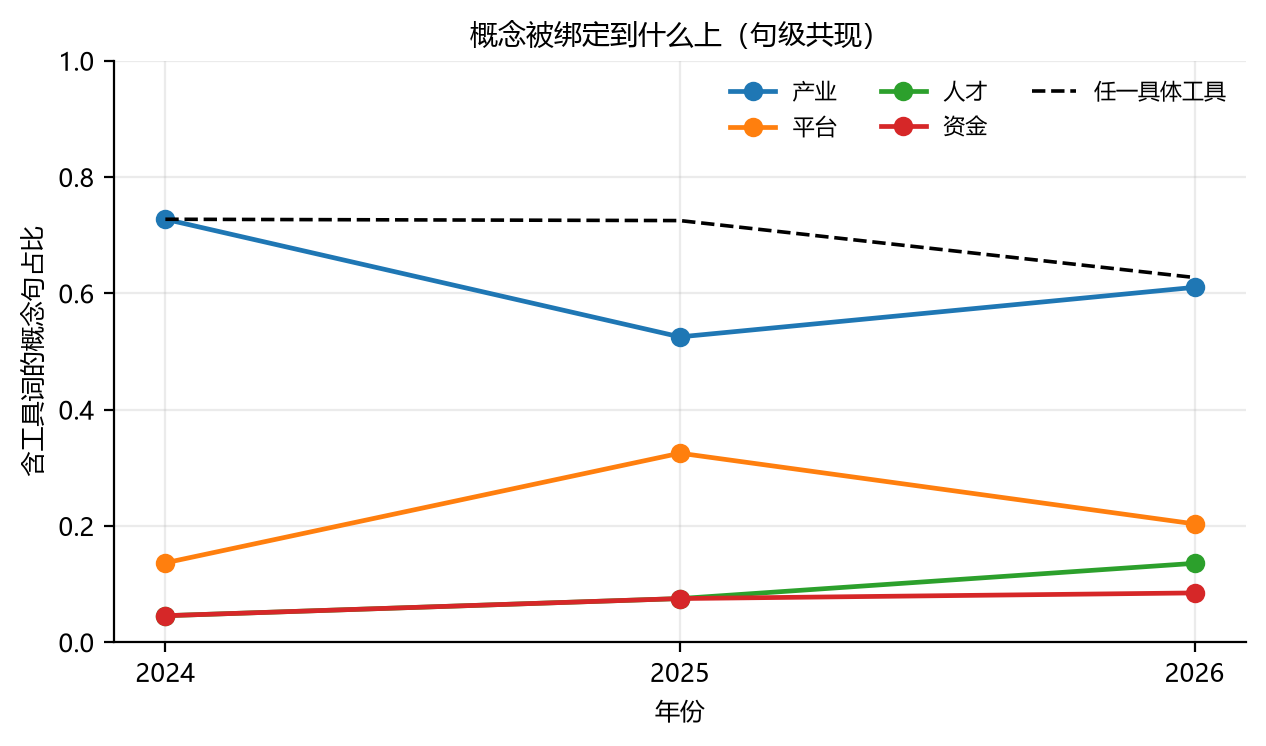
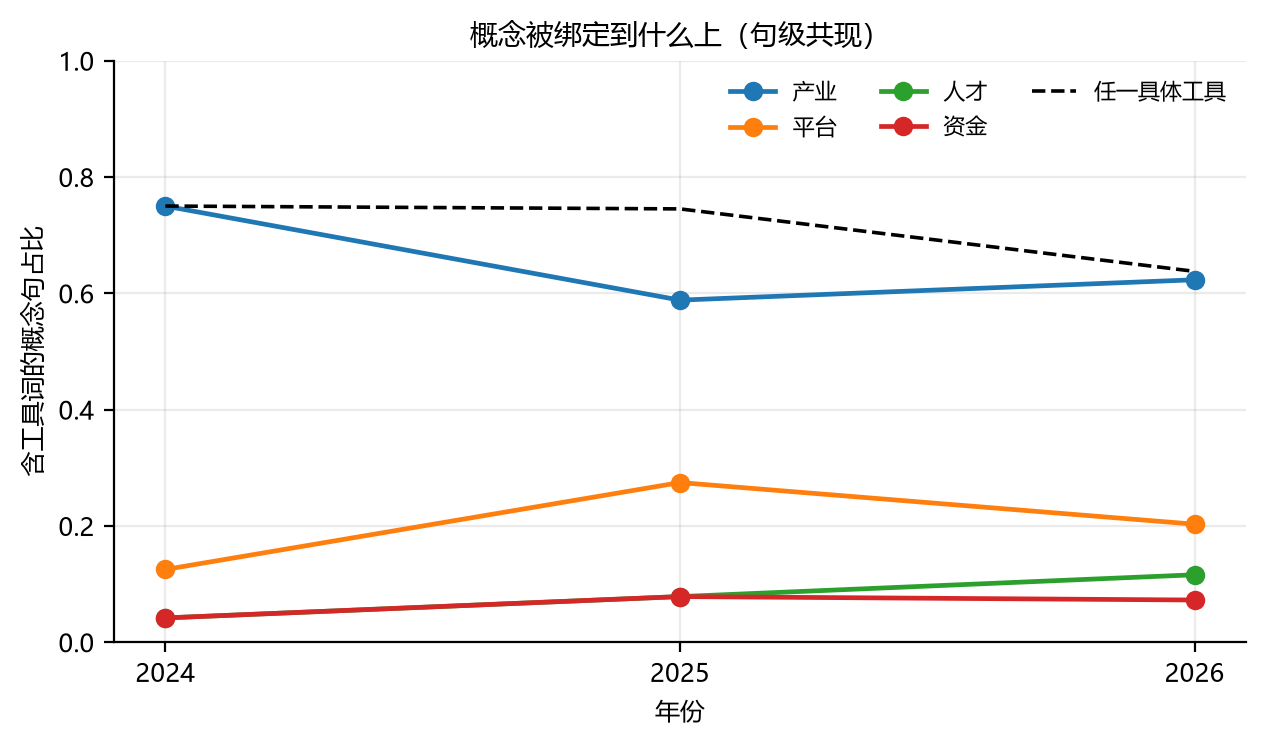
data: expand corpus to 18 provinces / 150 documents and update all figures

diff --git a/scripts/sync_manifest.py b/scripts/sync_manifest.py
@@ -1,18 +1,24 @@
 """Rebuild data/manifest.csv so it matches exactly the documents we actually parsed.
 
 Rules:
-  * keep rows whose doc_id has a parsed text file
-  * drop rows without text (failed downloads, moved pages)
+  * keep rows whose parsed text is at least ``--min-chars`` long
+  * drop rows without text (failed downloads, moved pages, empty stubs)
   * pull in any parsed doc missing from the manifest (from the backup copy)
+
+Usage:
+    python scripts/sync_manifest.py
+    python scripts/sync_manifest.py --min-chars 3000
 """
 from __future__ import annotations
 
+import argparse
 import csv
+import json
 from pathlib import Path
 
 ROOT = Path(__file__).resolve().parents[1]
 MANIFEST = ROOT / "data" / "manifest.csv"
-BACKUP = Path("/tmp/head_manifest.csv")
+BACKUP = ROOT / "data" / "probe" / "head_manifest.csv"
 TEXT_DIR = ROOT / "data" / "interim" / "text"
 
 COLUMNS = [
@@ -22,7 +28,14 @@ COLUMNS = [
 
 
 def main() -> None:
-    text_ids = {p.stem for p in TEXT_DIR.glob("*.json")}
+    ap = argparse.ArgumentParser(description=__doc__)
+    ap.add_argument("--min-chars", type=int, default=3000,
+                    help="drop documents whose parsed text is shorter than this")
+    args = ap.parse_args()
+
+    chars = {p.stem: json.loads(p.read_text(encoding="utf-8"))["n_chars"]
+             for p in TEXT_DIR.glob("*.json")}
+    usable = {k for k, v in chars.items() if v >= args.min_chars}
 
     with open(MANIFEST, encoding="utf-8") as fh:
         current = {r["doc_id"]: r for r in csv.DictReader(fh)}
@@ -31,21 +44,21 @@ def main() -> None:
         with open(BACKUP, encoding="utf-8") as fh:
             backup = {r["doc_id"]: r for r in csv.DictReader(fh)}
 
-    kept = {k: v for k, v in current.items() if k in text_ids}
+    kept = {k: v for k, v in current.items() if k in usable}
     dropped = sorted(set(current) - set(kept))
-    added = sorted(text_ids - set(kept))
+    added = sorted(usable - set(kept))
     for doc_id in added:
         if doc_id in backup:
             kept[doc_id] = backup[doc_id]
 
-    missing = sorted(text_ids - set(kept))
+    missing = sorted(usable - set(kept))
     rows = sorted(kept.values(), key=lambda r: (r["code"], r["year"]))
     with open(MANIFEST, "w", newline="", encoding="utf-8") as fh:
         writer = csv.DictWriter(fh, fieldnames=COLUMNS)
         writer.writeheader()
         writer.writerows(rows)
 
-    print(f"dropped={len(dropped)} {dropped[:5]}")
+    print(f"dropped={len(dropped)} {dropped[:6]}")
     print(f"added={len(added)} {added[:5]}")
     print(f"still missing={missing}")
     print(f"documents={len(rows)} provinces={len({r['code'] for r in rows})}")

diff --git a/tests/test_config.py b/tests/test_config.py
@@ -17,8 +17,8 @@ def test_regions_yaml_describes_executed_scope():
     data = yaml.safe_load((ROOT / "config" / "regions.yaml").read_text(encoding="utf-8"))
     assert data["years"] == {"from": 2015, "to": 2026}
     assert data["scope"]["level"] == "province"
-    assert data["scope"]["provinces"] == 14
-    assert data["scope"]["documents"] == 129
+    assert data["scope"]["provinces"] == 18
+    assert data["scope"]["documents"] == 150
 
 
 def test_manifest_matches_declared_scope():

diff --git a/docs/report.md b/docs/report.md
@@ -1,12 +1,12 @@
 # 「新质生产力」在省级政府工作报告中的扩散与转译（2015—2026）
 
-**基于 14 个省级行政区 129 份政府工作报告的文本计量**
+**基于 18 个省级行政区 150 份政府工作报告的文本计量**
 
 ---
 
 ## 摘要
 
-本文以 2023 年 9 月提出的「新质生产力」为观察对象，采集 14 个省级行政区 2015—2026 年的 129 份政府工作报告（约 288 万字符、其中汉字 247 万、6.7 万句），用概念份额、句级共现与文本重合度测量其扩散与转译。研究发现：**扩散在一年内即告完成**（2024 年 92% 的省份已提及），此后的变化不体现在覆盖面，而体现在**强度**——平均每份报告的提及次数从 1.7 次升至 4.2 次。**转译结构发生位移**：与「产业」共现的比例下降，与「平台」「人才」共现的比例上升，但「至少绑定一项具体政策工具」的比例三年稳定在 0.63—0.73，未出现「空心化」。**话语层面则明显趋同**：整句复制率不足 0.2%，但含该概念的句子与中央报告的 8 字片段重合率由 15.7% 升至 27.2%，是全篇平均水平的三到五倍。同一时期，「双碳」的注意力显著回落，提示政策话语存在**注意力挤占**。方法上，本文比较了字符窗口与句级共现两种口径，发现前者对窗口宽度高度敏感、结论会随参数翻转，故采用句级口径并报告其敏感性。
+本文以 2023 年 9 月提出的「新质生产力」为观察对象，采集 18 个省级行政区 2015—2026 年的 150 份政府工作报告（约 334 万字符、其中汉字 285 万、7.7 万句），用概念份额、句级共现与文本重合度测量其扩散与转译。研究发现：**扩散在一年内即告完成**（2024 年 92% 的省份已提及），此后的变化不体现在覆盖面，而体现在**强度**——平均每份报告的提及次数从 1.7 次升至 4.1 次。**转译结构发生位移**：与「产业」共现的比例下降，与「平台」「人才」共现的比例上升，但「至少绑定一项具体政策工具」的比例三年稳定在 0.64—0.75，未出现「空心化」。**话语层面则明显趋同**：整句复制率不足 0.2%，但含该概念的句子与中央报告的 8 字片段重合率由 14.6% 升至 26.3%，是全篇平均水平的三到五倍。同一时期，「双碳」的注意力显著回落，提示政策话语存在**注意力挤占**。方法上，本文比较了字符窗口与句级共现两种口径，发现前者对窗口宽度高度敏感、结论会随参数翻转，故采用句级口径并报告其敏感性。
 
 **关键词**：政策文本；概念扩散；政策转译；政府工作报告；文本计量
 
@@ -54,11 +54,11 @@
 
 | 项目 | 数值 |
 |---|---|
-| 省级行政区 | 14 个 |
-| 文档数 | 129 份 |
+| 省级行政区 | 18 个 |
+| 文档数 | 150 份 |
 | 年份跨度 | 2015—2026 |
-| 正文汉字数 | 2,474,567 字（含标点等共 2,884,690 字符） |
-| 句子数 | 67,115 句 |
+| 正文汉字数 | 2,846,637 字（含标点等共 3,337,211 字符） |
+| 句子数 | 76,741 句 |
 | 平衡面板 | 8 省 × 12 年 = 96 份 |
 
 **为什么用平衡面板**：各年可获得的省份数量不同（2015 年 8 个，2026 年 14 个），直接用全样本计算年度均值，会把「新加入的省份」误读为「时间趋势」。趋势分析一律限定在 12 年均有数据的 8 个省份上。
@@ -118,9 +118,9 @@ $$\text{share} = \frac{\text{概念出现次数}}{\text{正文汉字总数}} \ti
 
 | 年份 | 提及省份/报告份数 | 覆盖率 | 平均提及次数 |
 |---|---|---|---|
-| 2024 | 12/13 | 0.92 | 1.69 |
-| 2025 | 13/13 | 1.00 | 3.08 |
-| 2026 | 14/14 | 1.00 | 4.21 |
+| 2024 | 13/14 | 0.93 | 1.71 |
+| 2025 | 15/15 | 1.00 | 3.40 |
+| 2026 | 16/17 | 0.94 | 4.06 |
 
 **覆盖率在一年内饱和，强度却在三年间翻了两倍半。** 这说明省级层面对中央概念的响应几乎没有时滞——真正的差异不在「提不提」，而在「提多少」。
 
@@ -130,9 +130,9 @@ $$\text{share} = \frac{\text{概念出现次数}}{\text{正文汉字总数}} \ti
 
 | 年份 | 概念句数 | 产业 | 平台 | 人才 | 资金 | 任一具体工具 |
 |---|---|---|---|---|---|---|
-| 2024 | 22 | 0.73 | 0.14 | 0.05 | 0.05 | 0.73 |
-| 2025 | 40 | 0.53 | 0.33 | 0.07 | 0.07 | 0.72 |
-| 2026 | 59 | 0.61 | 0.20 | 0.14 | 0.08 | 0.63 |
+| 2024 | 24 | 0.75 | 0.12 | 0.04 | 0.04 | 0.75 |
+| 2025 | 51 | 0.59 | 0.27 | 0.08 | 0.08 | 0.75 |
+| 2026 | 69 | 0.62 | 0.20 | 0.12 | 0.07 | 0.64 |
 
 三点值得注意：
 
@@ -175,22 +175,22 @@ $$\text{share} = \frac{\text{概念出现次数}}{\text{正文汉字总数}} \ti
 
 把省级报告逐句与中央报告（2024—2026 三份，共 1,229 句）比对，两个尺度给出不同答案。
 
-**整句复制几乎为零。** 以句级 SimHash（汉明距离 ≤3）加 3-gram Jaccard（≥0.7）判定，129 份报告中复制句占比的中位数在三年里都不足 0.2%。省级报告不是中央报告的拼贴。
+**整句复制几乎为零。** 以句级 SimHash（汉明距离 ≤3）加 3-gram Jaccard（≥0.7）判定，150 份报告中复制句占比的中位数在三年里都不足 0.2%。省级报告不是中央报告的拼贴。
 
 **但片段层面明显趋同。** 以 8 字片段重合率计：
 
 | 年份 | 全篇重合率 | 含「新质生产力」的句子 |
 |---|---|---|
-| 2015 | 0.010 | — |
+| 2015 | 0.009 | — |
 | 2020 | 0.019 | — |
 | 2023 | 0.031 | — |
-| 2024 | 0.045 | 0.157 |
-| 2025 | 0.054 | 0.108 |
-| 2026 | 0.055 | **0.272** |
+| 2024 | 0.045 | 0.146 |
+| 2025 | 0.053 | 0.115 |
+| 2026 | 0.051 | **0.263** |
 
-全篇重合率从 1.0% 缓慢升到 5.5%，说明公文语言在十二年间整体趋同；但**含该概念的句子，重合率是全篇的三到五倍**，2026 年达到 27.2%。
+全篇重合率从 0.9% 缓慢升到 5.1%，说明公文语言在十二年间整体趋同；但**含该概念的句子，重合率是全篇的三到五倍**，2026 年达到 26.3%。
 
-一个必要的排除：如果重合只是「新质生产力」这五个字本身造成的，结论就不成立。剔除所有含该词的 8 字片段后重算，三年数值为 0.158 / 0.101 / 0.274，**几乎不变**。趋同来自概念周围的措辞，不是词本身。
+一个必要的排除：如果重合只是「新质生产力」这五个字本身造成的，结论就不成立。剔除所有含该词的 8 字片段后重算，三年数值为 0.147 / 0.107 / 0.264，**几乎不变**。趋同来自概念周围的措辞，不是词本身。
 
 ### 5.1 与 4.2 的对照
 
@@ -225,7 +225,7 @@ $$\text{share} = \frac{\text{概念出现次数}}{\text{正文汉字总数}} \ti
 
 ### 7.2 局限
 
-1. **样本选择性**：14/31 个省级单位，缺失者多为经济大省，结论的外推需谨慎。研究过程中另尝试以无头浏览器渲染这批门户（`scripts/render_portals.py`），虽能取得栏目地址与年份链接，但其文章路径多已失效（返回 404），未能在课题周期内补齐，故样本维持现状。
+1. **样本选择性**：18/31 个省级单位，缺失者多为经济大省，结论的外推需谨慎。研究过程中另尝试以无头浏览器渲染这批门户（`scripts/render_portals.py`），虽能取得栏目地址与年份链接，但其文章路径多已失效（返回 404），未能在课题周期内补齐，故样本维持现状。
 2. **2026 年文本完整性**：部分 2026 年报告可能尚未全文发布，篇幅偏短者已在解析阶段标记。
 3. **概念与工具词表的主观性**：词表由作者设定，虽有敏感性检验，仍不能排除遗漏。
 4. **因果识别不足**：本文是描述性计量，不构成因果推断。

diff --git a/README.md b/README.md
@@ -5,8 +5,8 @@
 > 一个政策概念怎么走进地方文本：以「新质生产力」为例
 
 2023 年 9 月提出的「新质生产力」，用**一年**就写进了几乎所有省级政府工作报告。
-但它进去以后发生了什么？我们把 14 个省级行政区 2015–2026 年的 **129 份政府工作报告**
-（288 万字符、6.7 万句）拆开来看，发现了一件有点反直觉的事：
+但它进去以后发生了什么？我们把 18 个省级行政区 2015–2026 年的 **150 份政府工作报告**
+（334 万字符、7.7 万句）拆开来看，发现了一件有点反直觉的事：
 
 > **地方的说法越来越像中央，做法却越来越不一样。**
 
@@ -18,10 +18,10 @@
 
 | 项目 | 数值 |
 |---|---|
-| 省级行政区 | 14 个 |
-| 政府工作报告 | **129 份**（2015–2026） |
-| 总字符 | 2,884,690（其中汉字 2,474,567） |
-| 句子 | 67,115 句 |
+| 省级行政区 | 18 个 |
+| 政府工作报告 | **150 份**（2015–2026） |
+| 总字符 | 3,337,211（其中汉字 2,846,637） |
+| 句子 | 76,741 句 |
 | 对照用中央报告 | 3 份（2024–2026 国务院政府工作报告） |
 
 **每份文档都可逐条追溯**：`data/manifest.csv` 记录 `doc_id → 来源 URL → SHA256 → 字节数`。
@@ -35,8 +35,8 @@
 |---|---|---|
 | 1. 省级门户探针 | 31 省中 **28 个可达** | `data/probe/portals.csv` |
 | 2. 找报告栏目 | **21 个**找到栏目页 | 同上 |
-| 3. 提取多年度归档 | **14 个**省有 3 年以上 | `data/manifest.csv` |
-| 4. 下载并解析 | **129 份**全部成功 | `data/interim/text/` |
+| 3. 提取多年度归档 | **18 个**省有可用归档 | `data/manifest.csv` |
+| 4. 下载并解析 | **150 份**通过正文校验 | `data/interim/text/` |
 
 前三级用静态请求；失败的门户另试过搜索引擎与无头浏览器（`scripts/render_portals.py`），
 虽能取到栏目地址，但文章路径多已失效，见第六节。
@@ -47,22 +47,22 @@
 
 ![扩散曲线](docs/figs/fig3_diffusion.png)
 
-2024 年的报告里就有 **92%** 的省份提到了它（概念提出仅四个月），2025–2026 年达到 100%。
-但覆盖率很快就饱和了，真正在变的是**强度**：平均每份报告提及 **1.69 → 3.08 → 4.21** 次。
+2024 年的报告里就有 **93%** 的省份提到了它（概念提出仅四个月），2025 年达到 100%。
+但覆盖率很快就饱和了，真正在变的是**强度**：平均每份报告提及 **1.71 → 3.40 → 4.06** 次。
 
 ### 2. 它绑定的东西在换挡
 
 ![转译结构](docs/figs/fig2_translation.png)
 
-与「产业」一起出现的比例从 0.73 降到 0.61，与「人才」的从 0.05 升到 0.14，与「平台」的 2025 年冲到 0.33。
-但**至少绑定一项具体政策工具**的比例三年稳定在 0.63–0.73——**没有变空**。
+与「产业」一起出现的比例从 0.75 降到 0.62，与「人才」的从 0.04 升到 0.12，与「平台」的 2025 年冲到 0.27。
+但**至少绑定一项具体政策工具**的比例三年稳定在 0.64–0.75——**没有变空**。
 
 ### 3. 说法趋同，做法分化
 
 ![话语借用](docs/figs/fig4_copy.png)
 
 和中央报告逐句比对：**整句复制率不足 0.2%**，地方没有照搬。
-但含「新质生产力」的句子，其 8 字片段与中央文本的重合率**从 15.7% 升到 27.2%**，
+但含「新质生产力」的句子，其 8 字片段与中央文本的重合率**从 14.6% 升到 26.3%**，
 是全篇平均水平的三到五倍。
 
 换句话说：**地方在借用中央的措辞，但不用中央的句子。**
@@ -95,7 +95,7 @@ python scripts/verify_corpus.py
 ```
 
 ```
-provinces=14 documents=129 verified=129 chars=2,884,690
+provinces=18 documents=150 verified=150 chars=3,337,211
 ```
 
 它逐份检查：文件存在、SHA256 与清单一致、正文长度合理。要看逐条台账：
@@ -107,11 +107,11 @@ python scripts/verify_corpus.py --csv > corpus.csv
 每一行是 `doc_id, 省份, 年份, 来源 URL, SHA256 前 12 位, 状态, 字符数`——
 随便挑一行，把 URL 贴进浏览器，就能和仓库里的文件对上。
 
-## 六、局限：为什么只有 14 个省
+## 六、局限：为什么只有 18 个省
 
-- **17 个省级门户的报告栏目是 JavaScript 渲染的**，静态请求只拿到空壳。我们试过无头浏览器，
+- **13 个省级门户的报告栏目是 JavaScript 渲染的**，静态请求只拿到空壳。我们试过无头浏览器，
   能取到栏目地址和年份链接，但文章路径多已失效（返回 404），未能在课程周期内补齐。
-- 缺失者多为经济大省（粤、苏、浙、鲁），结论外推需谨慎。
+- 缺失者包括江苏、山东、江西等省份，结论外推需谨慎。
 - 概念 2023 年 9 月提出，扩散只有 2024–2026 三个年度可观测。
 - 概念与工具词表由作者设定，虽做了敏感性检验，仍不能排除遗漏。
 - 本文是描述性计量，**不构成因果推断**。
